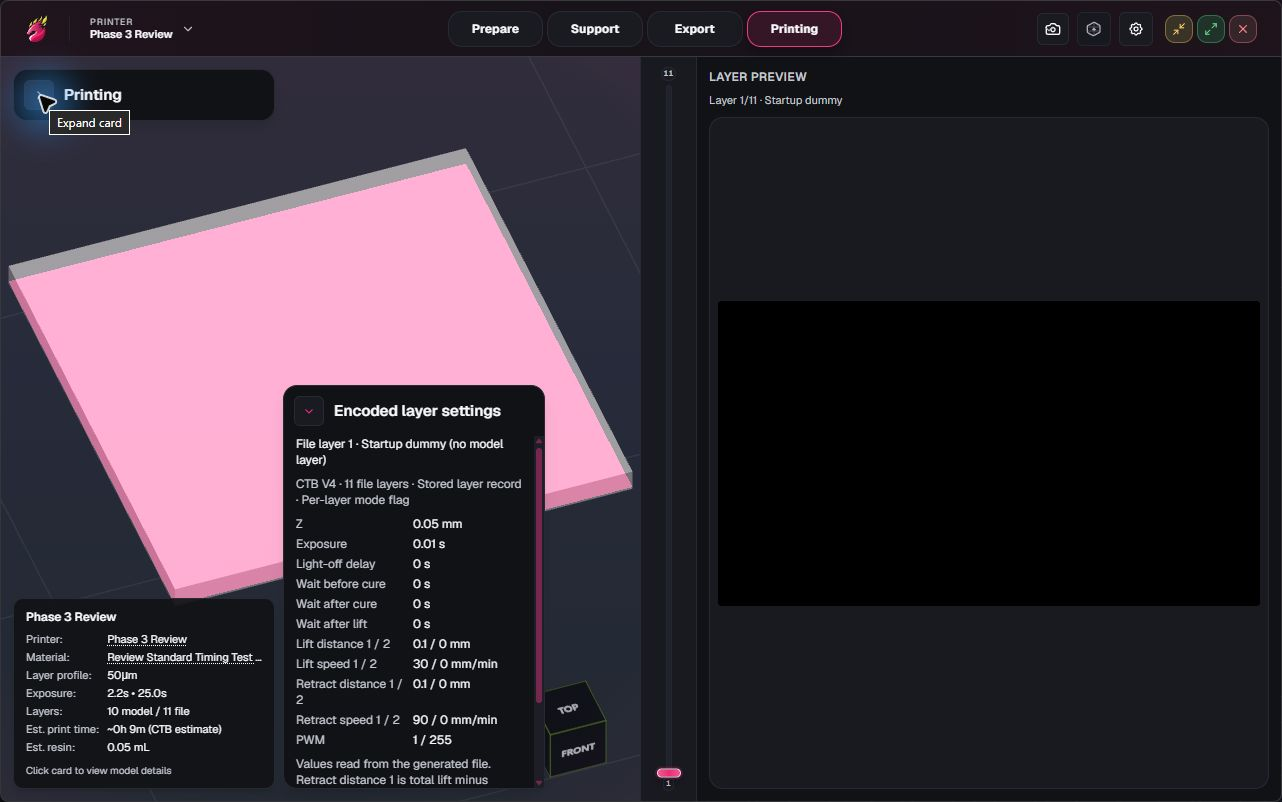
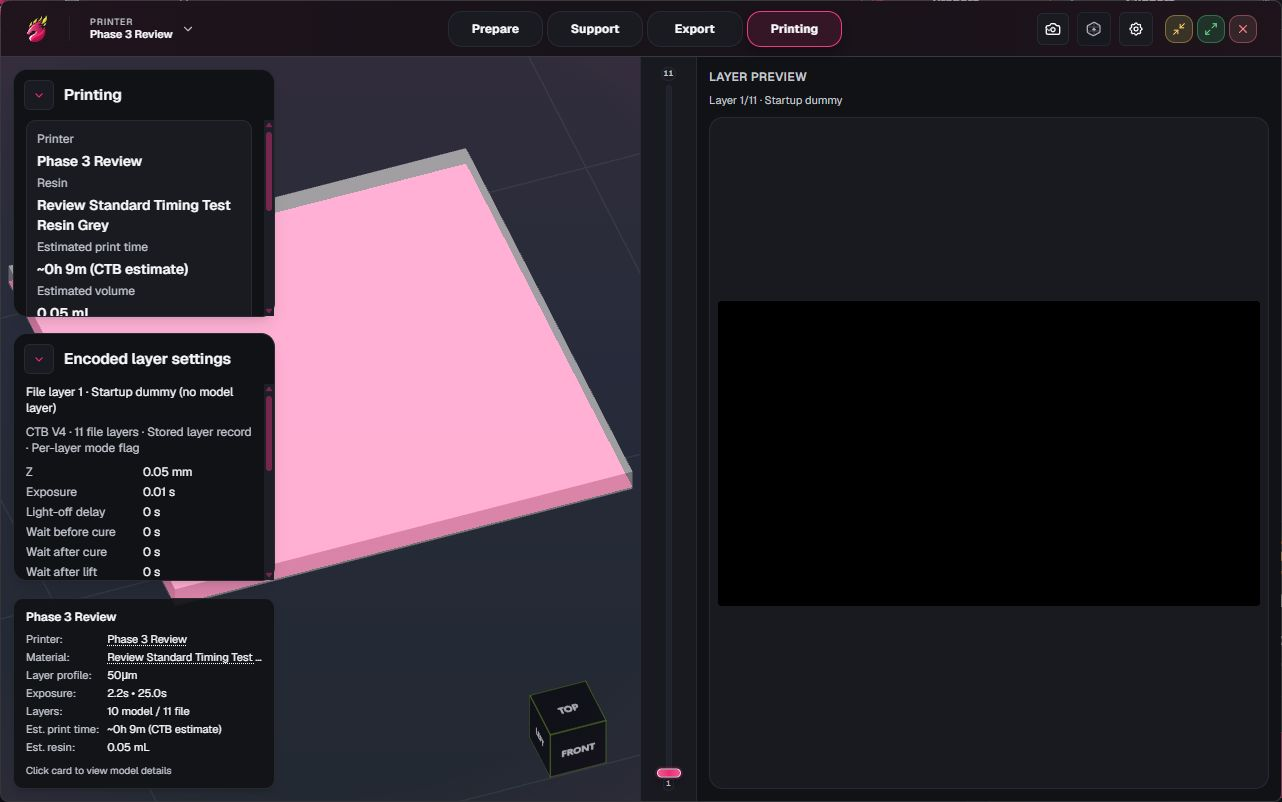
Align CTB layer inspector above the left summary card

Changed region(s): [[0.0, 0.0623, 0.4368, 0.9975], [0.9984, 0.6858, 1.0, 0.8105], [0.9984, 0.904, 1.0, 0.9975]]

diff --git a/src/app/page.tsx b/src/app/page.tsx
@@ -2933,6 +2933,7 @@ export default function Home() {
   });
   const modelStatsCardContainerRef = React.useRef<HTMLDivElement | null>(null);
   const [modelStatsBottomClearancePx, setModelStatsBottomClearancePx] = React.useState(220);
+  const [modelStatsCardWidthPx, setModelStatsCardWidthPx] = React.useState(320);
   const arrangeHullFootprintCacheRef = React.useRef<Map<string, HullCacheEntry>>(new Map());
   const trackSupportCollectionsInHome = scene.mode !== 'support';
   
@@ -3475,6 +3476,7 @@ export default function Home() {
       const safetyGapPx = 14;
       const measured = Math.ceil(rect.height + bottomMarginPx + safetyGapPx);
       setModelStatsBottomClearancePx(Math.max(220, measured));
+      setModelStatsCardWidthPx(Math.ceil(rect.width));
     };
 
     updateClearance();
@@ -4090,6 +4092,10 @@ export default function Home() {
   }, [selectedPrintingLayerPreviewUrl]);
 
   const hasPrintingWorkspaceData = printingPreviewTotalLayers > 0 && printingArtifact !== null;
+  const hasCtbPrintingInspector = scene.mode === 'printing' && printingArtifact?.outputFormat.toLowerCase().includes('ctb');
+  // Split the left rail between Printing and encoded settings, reserving both
+  // headers/gaps and the measured stats card below. Each body scrolls locally.
+  const printingCtbPanelBodyMaxHeight = `min(22rem, max(4rem, calc((100vh - var(--topbar-height) - ${modelStatsBottomClearancePx + 132}px) / 2)))`;
   const activeSliceProfileFingerprint = React.useMemo(() => {
     return sliceProfileFingerprint(activePrinterProfile, activeMaterialProfile);
   }, [activeMaterialProfile, activePrinterProfile]);
@@ -19080,6 +19086,7 @@ export default function Home() {
         ) : scene.mode === 'printing' ? (
           <>
             <PrintingPanel
+              bodyMaxHeight={hasCtbPrintingInspector ? printingCtbPanelBodyMaxHeight : undefined}
               outputName={printingArtifact?.outputName ?? null}
               outputFormat={printingArtifact?.outputName?.split('.').pop() ? `.${printingArtifact.outputName.split('.').pop()}` : null}
               outputSizeLabel={printingOutputSizeLabel}
@@ -19112,9 +19119,6 @@ export default function Home() {
               sliceIntent={completedSliceIntent}
               savedFilePath={completedSaveDestinationPath}
             />
-            {printingArtifact?.outputFormat.toLowerCase().includes('ctb') && (
-              <CtbLayerInspector key="printing-ctb-layer-inspector" artifact={printingArtifact} layerNumber={printingSelectedLayer} bottomClearancePx={modelStatsBottomClearancePx} />
-            )}
           </>
         ) : (
           <>
@@ -19818,6 +19822,12 @@ export default function Home() {
               <SnapAngleReadout />
               <RotationHintTooltip />
             </>
+          )}
+
+          {hasCtbPrintingInspector && printingArtifact && scene.models.length > 0 && (
+            <div className="absolute left-3 z-30 pointer-events-auto" style={{ bottom: modelStatsBottomClearancePx, width: modelStatsCardWidthPx }}>
+              <CtbLayerInspector artifact={printingArtifact} layerNumber={printingSelectedLayer} bodyMaxHeight={printingCtbPanelBodyMaxHeight} />
+            </div>
           )}
 
           {scene.models.length > 0 && (

diff --git a/src/features/printing/components/CtbLayerInspector.tsx b/src/features/printing/components/CtbLayerInspector.tsx
@@ -6,7 +6,7 @@ import { readCtbLayerSettings, type CtbStoredLayerSettings } from '../ctbLayerSe
 import { Card, CardHeader, IconButton } from '@/components/ui/primitives';
 import { useFloatingPanelCollapse } from '@/components/layout/FloatingPanelStack';
 
-export function CtbLayerInspector({ artifact, layerNumber, bottomClearancePx = 220 }: { artifact: SliceExportArtifact; layerNumber: number; bottomClearancePx?: number }) {
+export function CtbLayerInspector({ artifact, layerNumber, bodyMaxHeight = '22rem' }: { artifact: SliceExportArtifact; layerNumber: number; bodyMaxHeight?: string }) {
   const [expanded, setExpanded] = useFloatingPanelCollapse(true);
   const path = artifact.nativeTempPath;
   const [result, setResult] = useState<{ artifact: SliceExportArtifact; path: string; layer: number; data?: CtbStoredLayerSettings; error?: string } | null>(null);
@@ -34,7 +34,7 @@ export function CtbLayerInspector({ artifact, layerNumber, bottomClearancePx = 2
         </IconButton>
         <h3 className="text-sm font-semibold" style={{ color: 'var(--text-strong)' }}>Encoded layer settings</h3>
       </>} hideDivider={!expanded} />
-      {expanded && <section className="px-3 pb-3 space-y-2 text-xs overflow-y-auto custom-scrollbar" style={{ maxHeight: `min(22rem, calc(100vh - var(--topbar-height) - ${Math.max(220, bottomClearancePx) + 96}px))`, color: 'var(--text-strong)' }} aria-label="Encoded CTB layer settings">
+      {expanded && <section className="px-3 pb-3 space-y-2 text-xs overflow-y-auto custom-scrollbar" style={{ maxHeight: bodyMaxHeight, color: 'var(--text-strong)' }} aria-label="Encoded CTB layer settings">
       <p>File layer {layerNumber}{planned ? planned.isDummy ? ' · Startup dummy (no model layer)' : ` · Model layer ${planned.modelLayerNumber}` : ''}</p>
       {!path ? <p>Generated file path unavailable.</p> : current?.error ? <p role="alert">Unable to inspect this file: {current.error}</p> : !layer ? <p role="status">Reading settings from generated file…</p> : <>
         <p style={{ color: 'var(--text-muted)' }}>CTB V{layer.version} · {layer.layerCount} file layers · Stored layer record · {layer.perLayerSettings ? 'Per-layer mode flag' : 'Global mode flag'}</p>

diff --git a/src/features/printing/components/PrintingPanel.tsx b/src/features/printing/components/PrintingPanel.tsx
@@ -25,6 +25,7 @@ type PrintingPanelProps = {
   onSendToUvTools?: () => void;
   sliceIntent?: 'file' | 'upload' | 'print' | 'preview' | 'uvtools' | null;
   savedFilePath?: string | null;
+  bodyMaxHeight?: string;
 };
 
 export function PrintingPanel({
@@ -49,6 +50,7 @@ export function PrintingPanel({
   onSendToUvTools,
   sliceIntent = null,
   savedFilePath = null,
+  bodyMaxHeight,
 }: PrintingPanelProps) {
   const [isExpanded, setIsExpanded] = useFloatingPanelCollapse(true);
   const [revealingSavedPath, setRevealingSavedPath] = React.useState(false);
@@ -109,7 +111,7 @@ export function PrintingPanel({
         )}
       />
 
-      {isExpanded && <div className="px-3 pb-3 space-y-2.5">
+      {isExpanded && <div className="px-3 pb-3 space-y-2.5 custom-scrollbar" style={bodyMaxHeight ? { maxHeight: bodyMaxHeight, overflowY: 'auto' } : undefined}>
         <div className="rounded-md border p-2.5 space-y-1" style={{ borderColor: 'var(--border-subtle)', background: 'var(--surface-1)' }}>
           <div className="text-xs" style={{ color: 'var(--text-muted)' }}>Printer</div>
           <div className="text-sm font-semibold" style={{ color: 'var(--text-strong)' }}>{printerName}</div>

diff --git a/docs/phase-3-acceptance.md b/docs/phase-3-acceptance.md
@@ -11,6 +11,7 @@ This document defines the Phase 0.3 behavior and checks. The verification sectio
 - The Timing tab shows the effective model and supports a raw LOD calculator in Simple, Two Stage, and All Fields single-stage CTB modes. The calculator adds constant-speed lift and retract travel, optional measured motion-time correction, and target extra pre-exposure rest; it rounds to 0.01 s and applies only when the user clicks Apply. Explicit waits remain independent. CTB V4/V5, including encrypted variants, support this feature; unsupported versions or modes show an actionable message.
 - The optional startup dummy inserts one file layer before real model layer 1. Its Z matches the first real layer; native output uses one gray-128 pixel, 0.01 s exposure, PWM 1, 0.1 mm first-stage lift, zero second-stage lift and timing waits, and inherited motion speeds. Real model Z and layer numbering remain unchanged in the editor. The CTB bottom count includes the dummy only when the original bottom count is positive.
 - Sliced-file export and the inspector use the same resolved file-order plan. The inspector distinguishes model layer number from file layer number and identifies the dummy.
+- The encoded-settings inspector is anchored on the left directly above the printer/material statistics card at the same width. Its body and the upper Printing panel share bounded scrolling space; both retain collapse controls.
 - Profile save/reload, independent color variants, printer duplication, printer bundle import/export, and material bundle import/export preserve timing settings without sharing nested references.
 - Reslice Now creates an unsaved preview and clears the previous saved path and completed action. Export is required to save the replacement artifact. This fixes the inherited stale “Saved to” display after reslicing, including when timing is turned off.
 
@@ -33,10 +34,10 @@ Record platform, build, material and printer profile fixtures, CTB version, and 
 - Focused TypeScript tests for timing rule precedence, transition boundaries, Simple/All Fields stage zeroing, separate bottom/normal Two Stage motion, dummy record shape, zero-PWM legacy fallback, calculator arithmetic, validation, and material persistence/clone/import passed locally on 2026-09-24 (8/8 in the focused run). The broader frontend regression run passed 20/20, and the TypeScript check passed.
 - The focused native CTB tests passed (32/32). The full native engine suite passed 150 tests and had one failure in an unrelated Elegoo timing test. Comparison against the baseline by exact Git hashes confirmed that failure was unchanged; the full suite is still not recorded as a clean pass.
 - Independently, the installed UVtools CLI decoded all eight V4/V5 and encrypted V4/V5 fixtures with startup dummy on and off. The decoded real-layer Z values remained unchanged, and raw LOD plus the three independent wait values were present in the layer records. Follow-up inspection passed all eight global-header default checks. A UVtools V4 dummy round trip also preserved 16 checked fields across all five layers.
-- Five optimized Windows release builds passed, including the reslice-path fix and final bounded, collapsible inspector-card layout.
+- Six optimized Windows release builds passed, including the reslice-path fix and the requested left-rail inspector layout.
 - In an isolated native app at 1280 × 800, the Timing defaults, range controls, and dummy option were readable. The Simple calculator produced 38.4 s raw LOD for a 30 s target and 40.4 s with 2 s motion correction. Apply changed only raw LOD; the material profile retained that value after saving and restarting the app.
 - A fresh native V4 Simple export of a 10-layer block with startup dummy completed at 159,297 bytes. Independent UVtools inspection confirmed the encoded timing and layer fields. The inspector's file layer 1 dummy, file layer 2/model layer 1, and file layer 9/model layer 8 matched the decoded file.
-- In the final native Windows UI review at 1280 × 800, the inspector occupied a separate adjacent column without overlapping statistics. Its bounded body scrolled through PWM and both help paragraphs, and collapse worked. A fresh V4 Simple dummy export completed at 159,297 bytes after the final layout build.
+- The final native Windows UI review verified the requested left-rail placement at 2560 × 1392 and 1280 × 800. At the smaller size, the inspector and statistics card both start at x = 14 px with 260 px widths and approximately 18 px between them; the upper Printing panel remains separate. Inspector collapse/reopen worked, its scroll reached PWM and both help paragraphs, and the Printing panel scrolled to Saved to and Send. TypeScript and focused component lint checks passed. A fresh V4 Simple dummy export completed in 135 ms of native slicing time, and the first encoded record displayed the expected timing. This supersedes the earlier adjacent-column layout review.
 - A fresh native V5 encrypted Two Stage export without dummy completed at 183,779 bytes. Independent UVtools inspection passed for all 10 layers: no dummy, Z from 0.05 to 0.5 mm in 0.05 mm steps, 0.5 mm total height, bottom lift of 2 + 4 mm at 30 + 180 mm/min with retract at 180 + 60 mm/min and 1 mm second-stage retract distance, and normal lift of 1 + 5 mm at 60 + 240 mm/min with retract at 240 + 60 mm/min and 1 mm second-stage retract distance. Bottom/normal defaults and all overrides matched the encoded records. The raw encrypted settings flag independently decoded as `0x40`. The inspector's motion and file/model numbering matched the decoded file.
 - An earlier copied Two Stage file was stale because a successful reslice retained the prior saved-file path. In the native app, reslicing that saved Two Stage job after selecting a Simple profile with startup dummy returned Export as CTB and cleared Saved to. The preview showed 10 model layers and 11 file layers, a matching nine-minute estimate, and the expected first dummy record. The original saved file's SHA remained unchanged. Explicit export produced a new 250,189-byte CTB file; independent UVtools inspection confirmed the dummy and first real layer. This verifies the saved-path reset for this mode switch. Reslicing after disabling timing has not yet been checked in the native UI.
 - The full Saturn 2/Saturn 3 manual matrix, timing-disabled native reslice check, profile bundle round trips, remaining legacy-output comparisons, and physical printer checks remain pending. No Saturn 2 or Saturn 3 hardware timing claim has been verified. User acceptance and a Phase 0.3 release/version change remain pending.

diff --git a/docs/workflows/printing-preview-and-send.md b/docs/workflows/printing-preview-and-send.md
@@ -32,8 +32,11 @@ from the generated file on disk. It shows Z, exposure, light-off delay, three
 independent waits, lift/retract distances and speeds, and PWM. Loading and read
 errors replace the values; settings are never inferred from the currently edited
 material. Retract distance 1 is displayed as total lift minus retract distance 2.
-The inspector can collapse like the Printing panel; its scrollable body keeps
-all encoded fields and the estimate explanation accessible in smaller windows.
+The inspector sits on the left directly above the printer/material statistics
+card, matching its width. It can collapse like the Printing panel. Both panels
+use bounded scrollable bodies to keep their controls accessible without overlap
+in smaller windows; the inspector includes all encoded fields and the estimate
+explanation.
 
 ## CTB timing and startup dummy
 

diff --git a/docs/phase-3-screenshots.md b/docs/phase-3-screenshots.md
@@ -22,12 +22,12 @@ Target extra rest, motion-time correction, travel breakdown, and the calculated 
 
 ## Startup dummy preview
 
-The file-layer inspector identifies the startup dummy separately from the first real model layer.
+The left-aligned file-layer inspector above the printer and material stats card identifies the startup dummy separately from the first real model layer.
 
 ![Startup dummy in the per-layer inspector](images/phase-3/03-startup-dummy-preview.png)
 
 ## Layer override preview
 
-An individual or range override appears in the per-layer inspector with its resolved timing values.
+The left-aligned per-layer inspector above the printer and material stats card shows resolved timing for an individual or range override.
 
 ![Resolved layer override in the per-layer inspector](images/phase-3/04-layer-override-preview.png)
